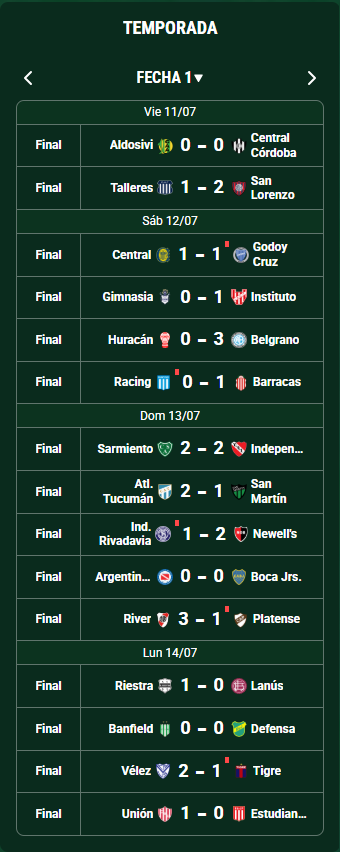
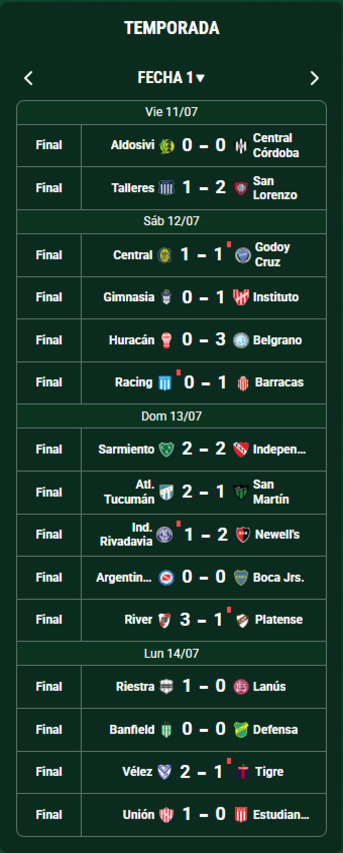
Se agregaron espacios entre las imagenes

diff --git a/pages/fixture.html b/pages/fixture.html
@@ -32,14 +32,36 @@
   </header>
   <main class="container my-5 py-5 text-center">
     <h1 class="mt-5">FIXTURE</h1>
-    <section class="row justify-content-center mt-4 g-3">
-      <div class="col-12 d-flex flex-wrap justify-content-center fixture-container">
-        <img src="../assets/img/fecha1.png" alt="Fixture de la Fecha 1" class="img-fluid" />
-        <img src="../assets/img/fecha2.png" alt="Fixture de la Fecha 2" class="img-fluid" />
-        <img src="../assets/img/fecha3.png" alt="Fixture de la Fecha 3" class="img-fluid" />
-        <img src="../assets/img/fecha4.png" alt="Fixture de la Fecha 4" class="img-fluid" />
-        <img src="../assets/img/fecha5.png" alt="Fixture de la Fecha 5" class="img-fluid" />
-        <img src="../assets/img/fecha6.png" alt="Fixture de la Fecha 6" class="img-fluid" />
+    <section class="row justify-content-center mt-4 g-4">
+      <div class="col-12 col-sm-6 col-md-4">
+        <div class="card">
+          <img src="../assets/img/fecha1.png" alt="Fixture de la Fecha 1" class="card-img-top" />
+        </div>
+      </div>
+      <div class="col-12 col-sm-6 col-md-4">
+        <div class="card">
+          <img src="../assets/img/fecha2.png" alt="Fixture de la Fecha 2" class="card-img-top" />
+        </div>
+      </div>
+      <div class="col-12 col-sm-6 col-md-4">
+        <div class="card">
+          <img src="../assets/img/fecha3.png" alt="Fixture de la Fecha 3" class="card-img-top" />
+        </div>
+      </div>
+      <div class="col-12 col-sm-6 col-md-4">
+        <div class="card">
+          <img src="../assets/img/fecha4.png" alt="Fixture de la Fecha 4" class="card-img-top" />
+        </div>
+      </div>
+      <div class="col-12 col-sm-6 col-md-4">
+        <div class="card">
+          <img src="../assets/img/fecha5.png" alt="Fixture de la Fecha 5" class="card-img-top" />
+        </div>
+      </div>
+      <div class="col-12 col-sm-6 col-md-4">
+        <div class="card">
+          <img src="../assets/img/fecha6.png" alt="Fixture de la Fecha 6" class="card-img-top" />
+        </div>
       </div>
     </section>
   </main>

diff --git a/pages/tablaPosiciones.html b/pages/tablaPosiciones.html
@@ -32,10 +32,16 @@
   </header>
   <main class="container my-5 py-5 text-center">
     <h1 class="mt-5">CLAUSURA</h1>
-    <section class="row justify-content-center mt-4">
-      <div class="col-12 d-flex flex-wrap justify-content-center fixture-container">
-        <img src="../assets/img/tablaPosiciones1.png" alt="Tabla de posiciones parte 1" class="img-fluid" />
-        <img src="../assets/img/tablaPosiciones2.png" alt="Tabla de posiciones parte 2" class="img-fluid" />
+    <section class="row justify-content-center mt-4 g-4">
+      <div class="col-12 col-md-6">
+        <div class="card">
+          <img src="../assets/img/tablaPosiciones1.png" alt="Tabla de posiciones parte 1" class="card-img-top" />
+        </div>
+      </div>
+      <div class="col-12 col-md-6">
+        <div class="card">
+          <img src="../assets/img/tablaPosiciones2.png" alt="Tabla de posiciones parte 2" class="card-img-top" />
+        </div>
       </div>
     </section>
   </main>
